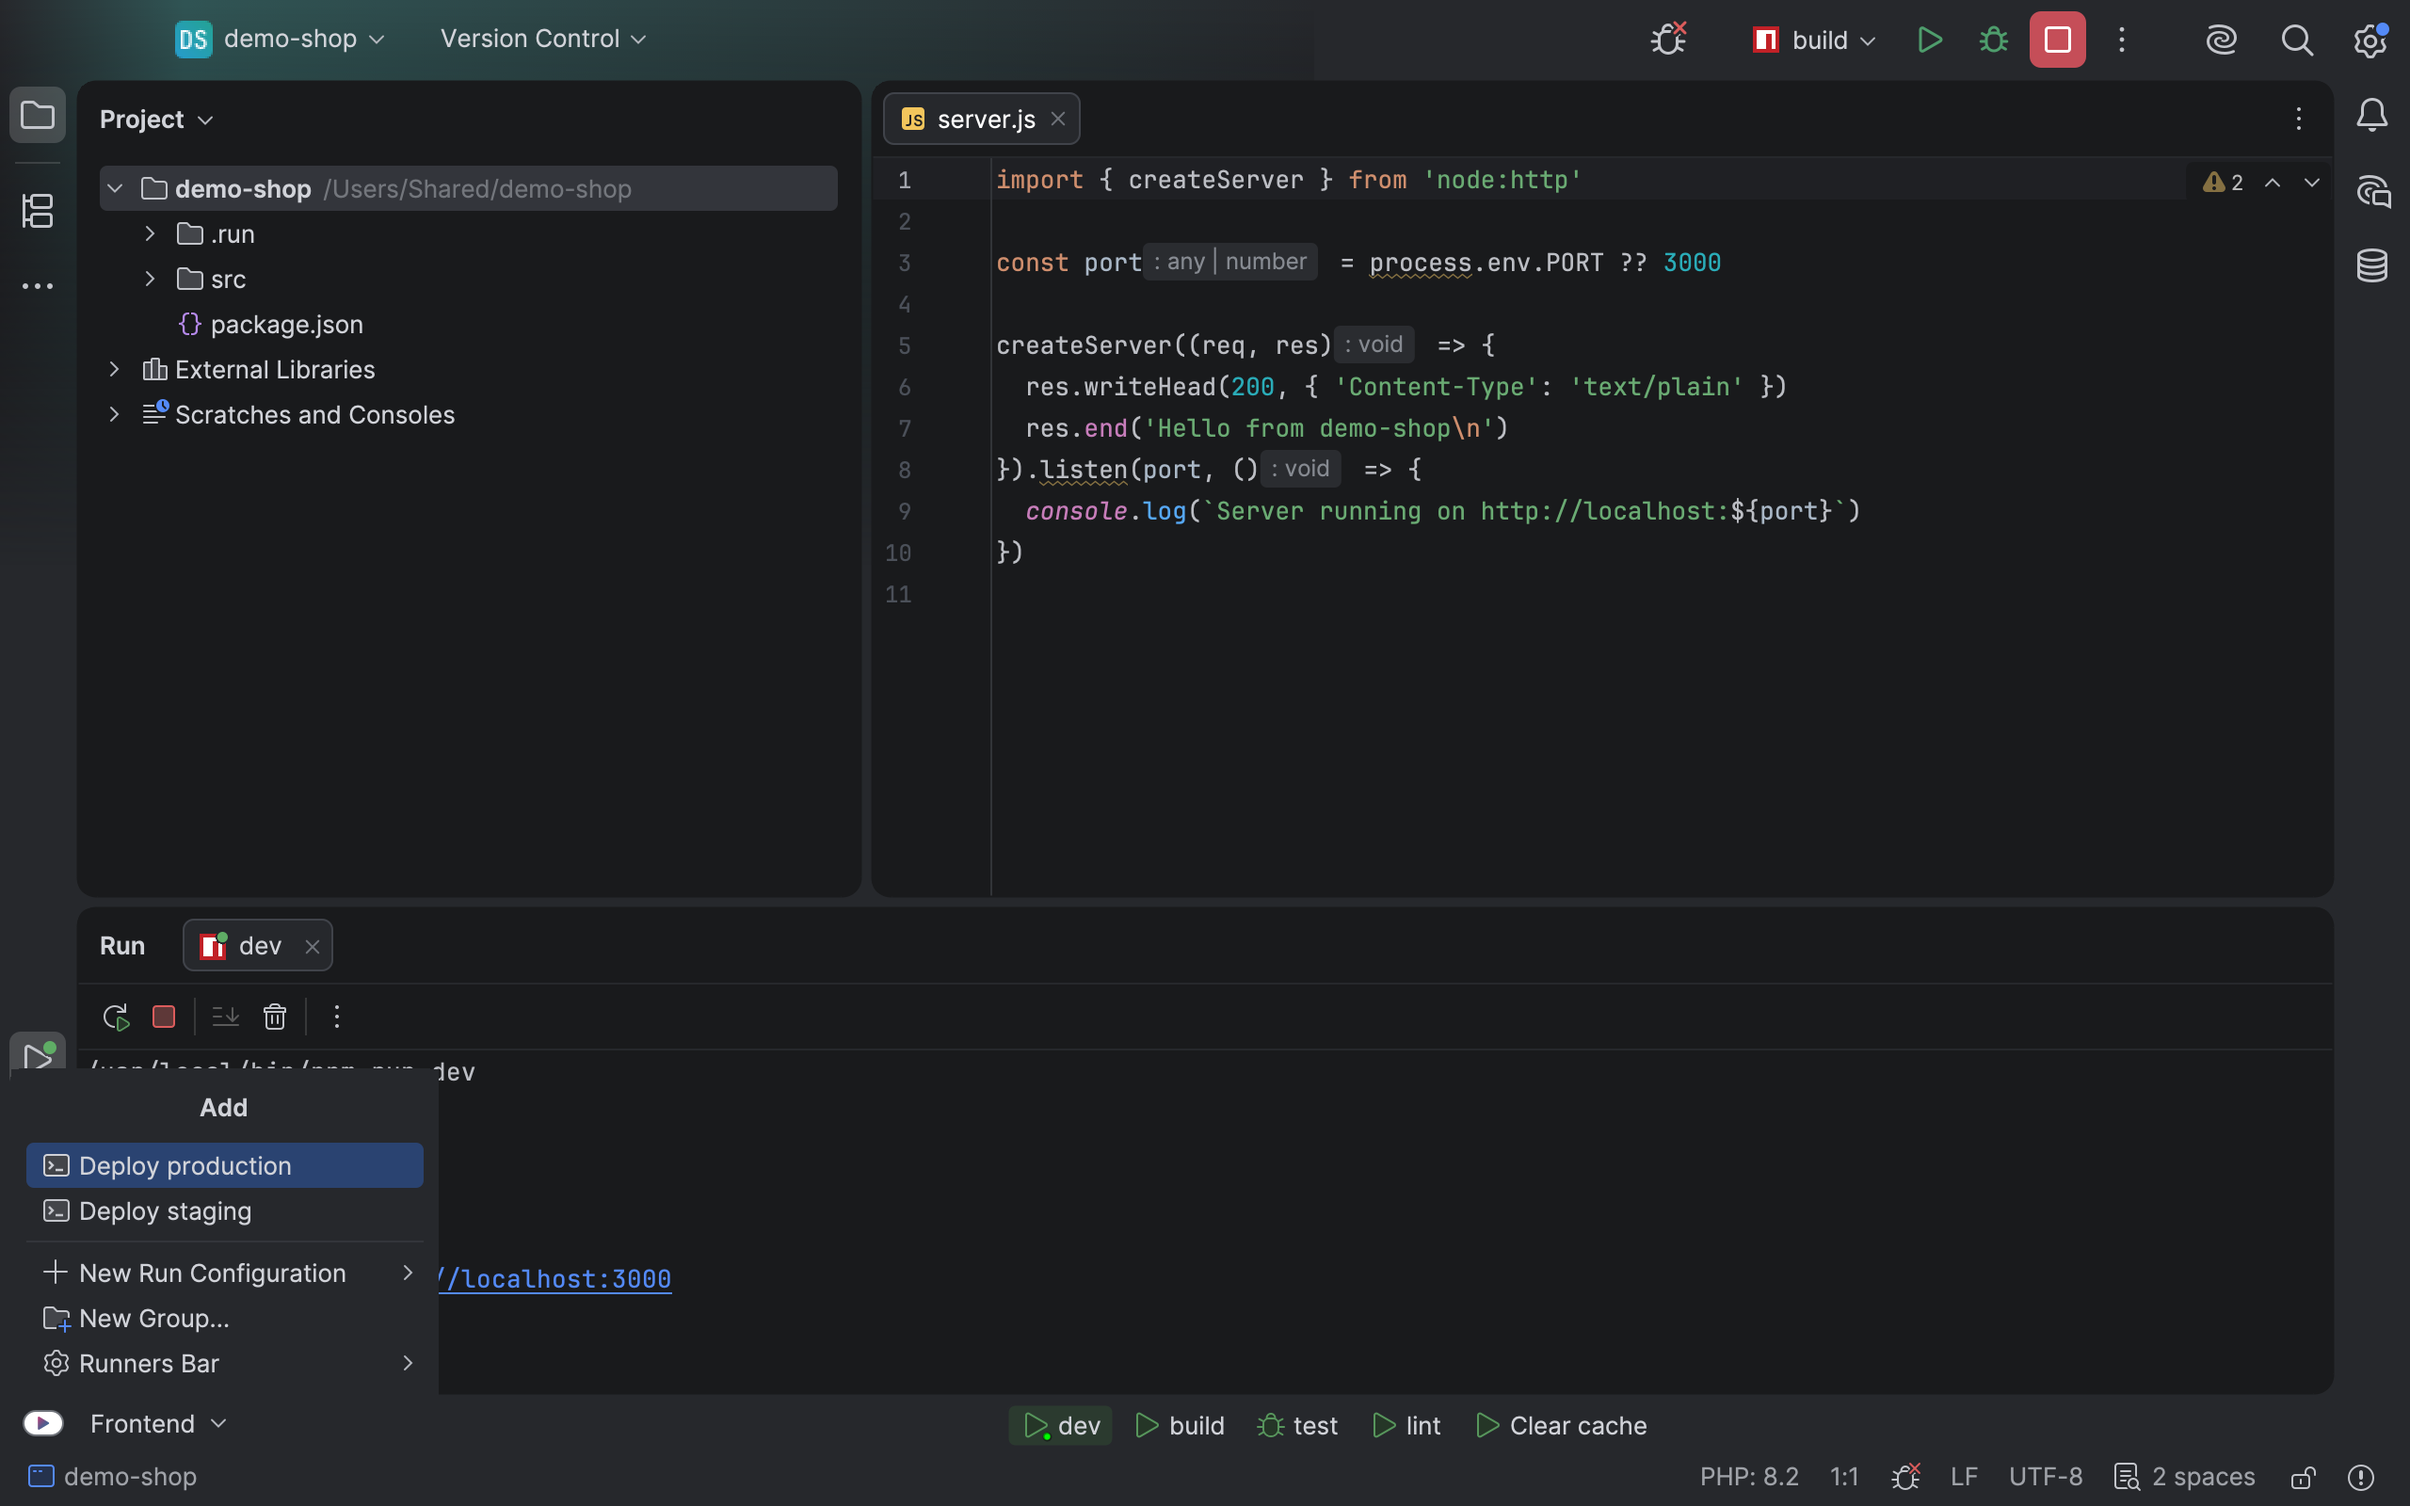
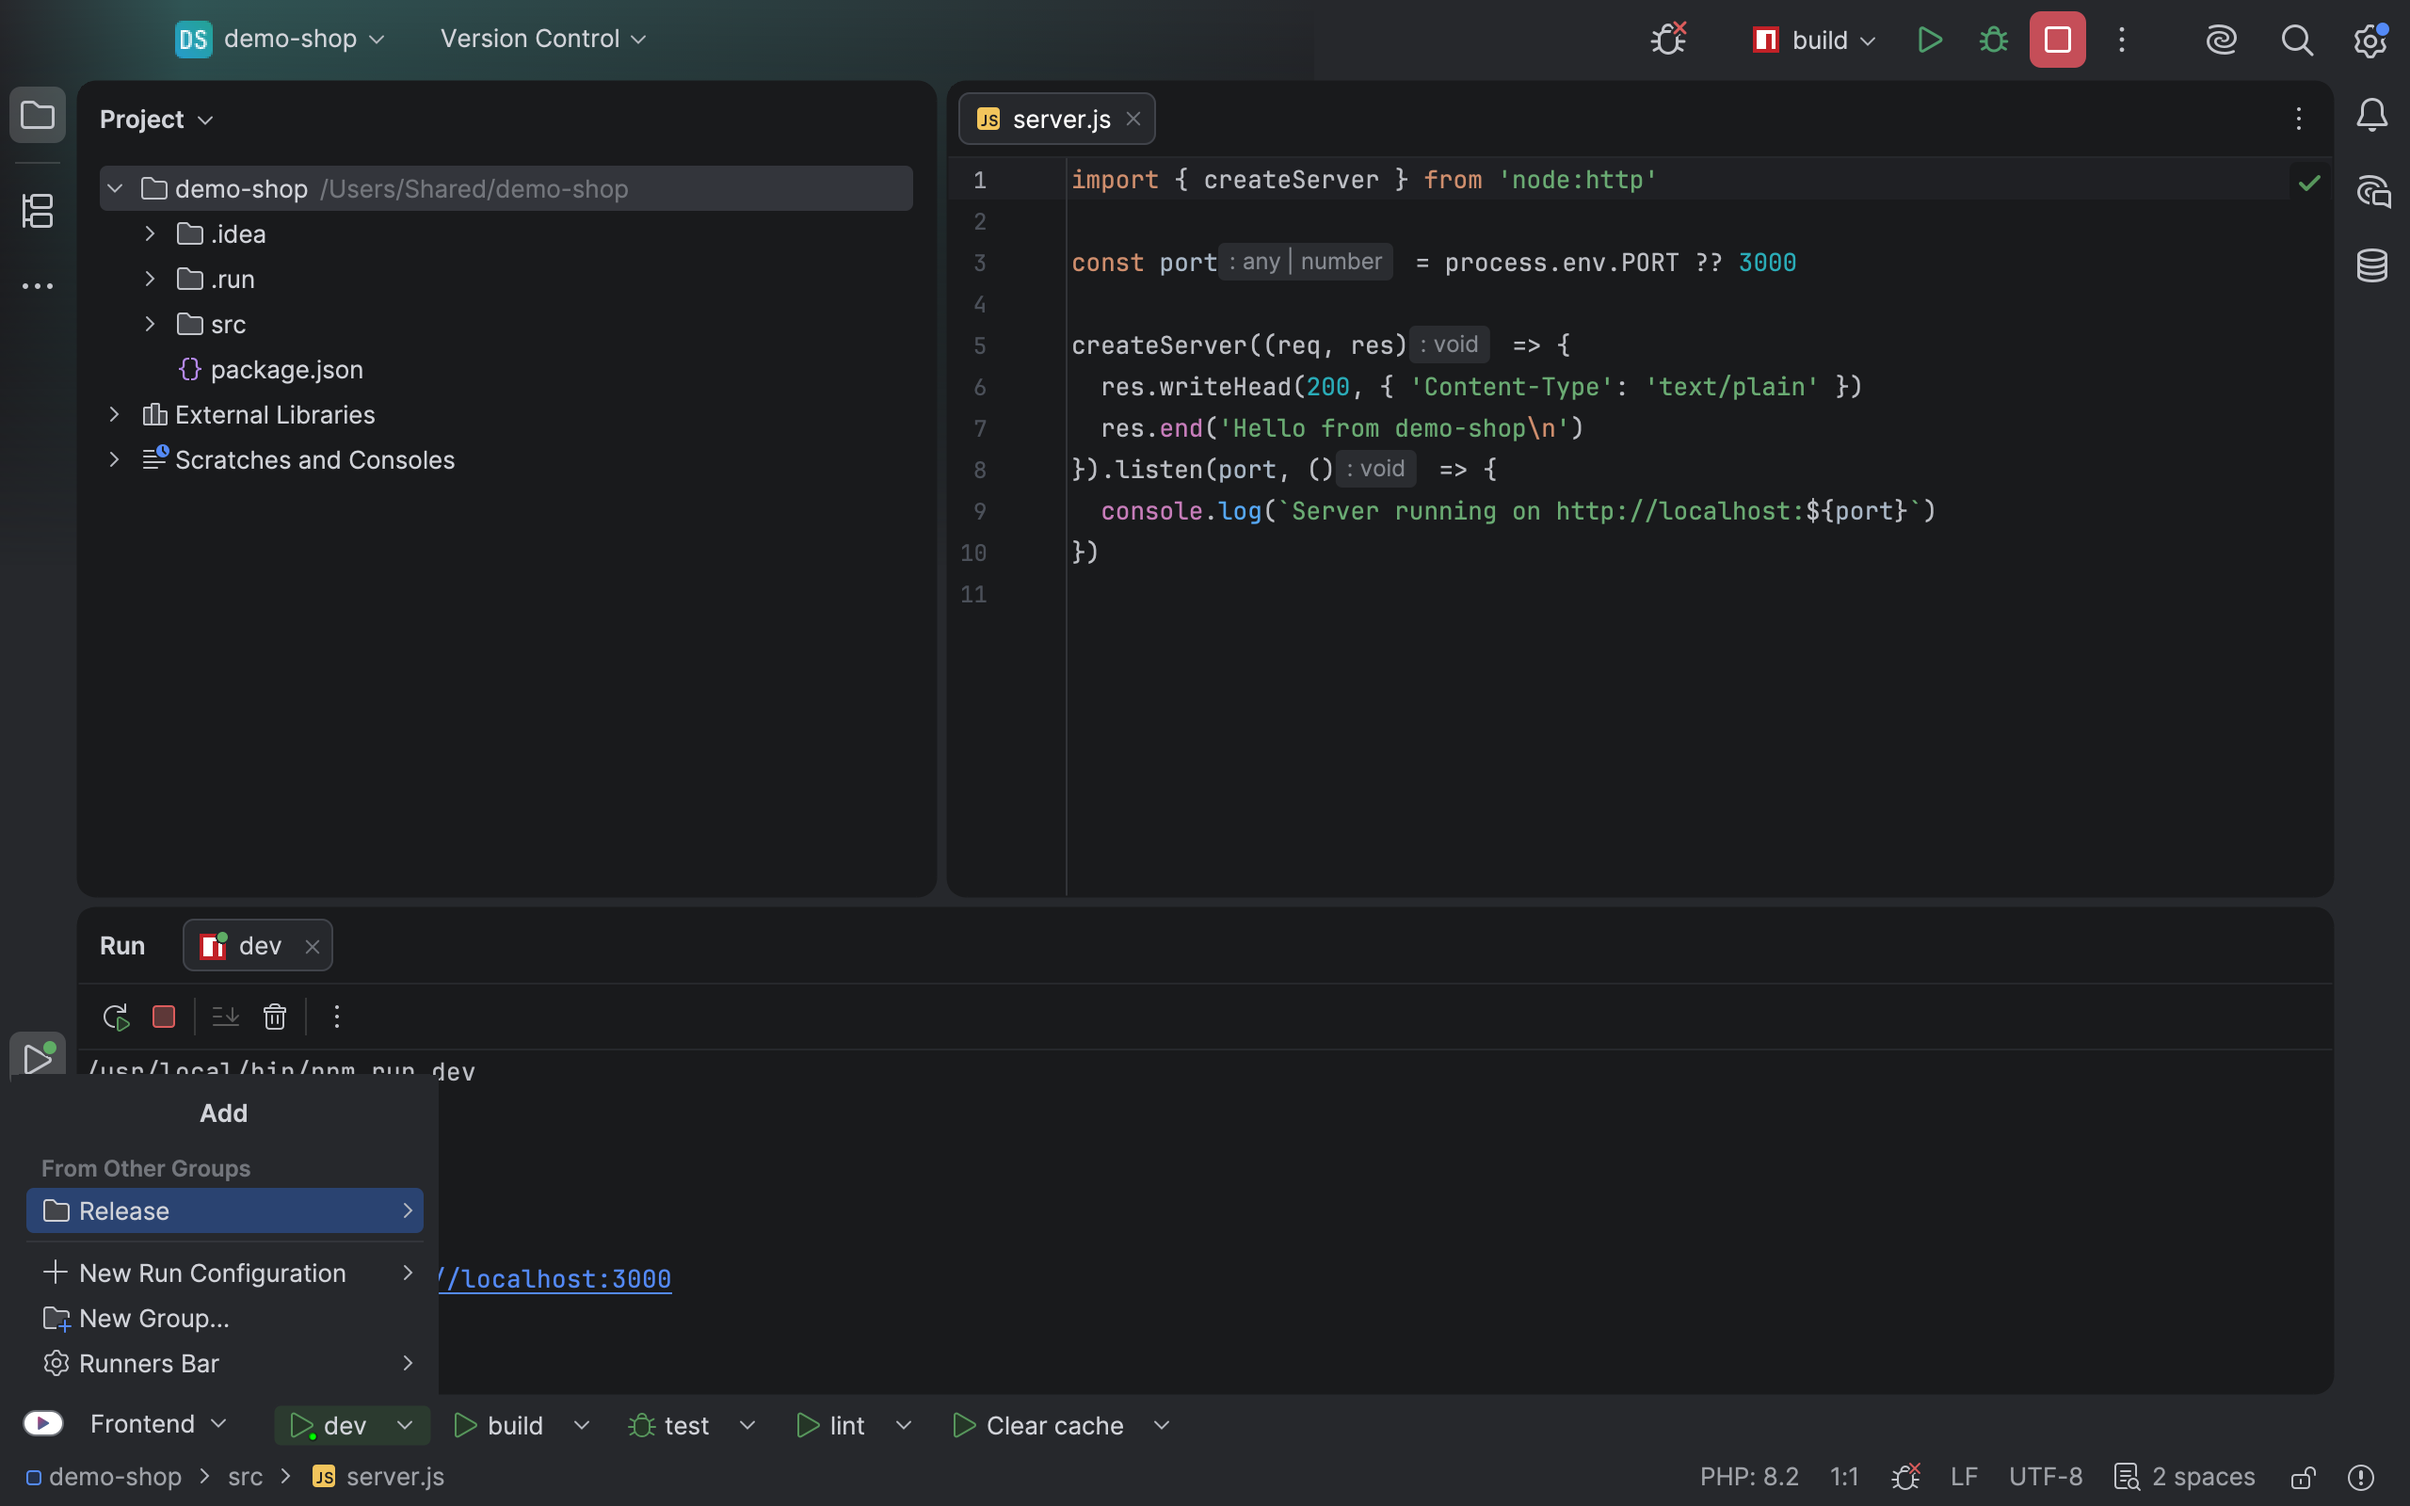
Runners Bar 2.3.0: consistent names for project file runners, grouped add menu
- Runners from .runners-bar are always named "Name (Group)"; tabs show just
  "Name" inside their group.
- Add menu lists configurations from other groups under "From Other Groups",
  one submenu per group with the short tab names.
- Submenus in the bar and tab menus open on hover.

diff --git a/src/main/kotlin/app/heckit/ide/runnersbar/RunnersBarPanel.kt b/src/main/kotlin/app/heckit/ide/runnersbar/RunnersBarPanel.kt
@@ -13,6 +13,7 @@ import com.intellij.notification.NotificationAction
 import com.intellij.notification.NotificationGroupManager
 import com.intellij.notification.NotificationType
 import com.intellij.openapi.Disposable
+import com.intellij.openapi.actionSystem.ex.ActionUtil
 import com.intellij.openapi.actionSystem.ActionGroup
 import com.intellij.openapi.actionSystem.ActionUpdateThread
 import com.intellij.openapi.actionSystem.AnAction
@@ -212,9 +213,22 @@ class RunnersBarPanel(private val project: Project, parent: Disposable) : JPanel
         if (candidates.isEmpty() && temporary.isEmpty() && commands.isEmpty()) {
             group.add(popupAction(RunnersBarBundle.message("bar.add.nothing"), null, enabled = false) {})
         }
-        candidates.forEach { settings ->
+        // Erst, was noch in keiner Gruppe steht; danach je Gruppe ein Untermenü mit den Kurznamen.
+        val byGroup = candidates.map { it to service.groupsOf(it) }
+        byGroup.filter { it.second.isEmpty() }.forEach { (settings, _) ->
             group.add(popupAction(settings.name, settings.configuration.icon) { service.add(settings) })
         }
+        byGroup.flatMap { (settings, groups) -> groups.map { it to settings } }
+            .groupBy({ it.first }, { it.second })
+            .toSortedMap(compareBy<String> { it != RunnersBarGroup.DEFAULT_GROUP }.thenBy { it.lowercase() })
+            .also { if (it.isNotEmpty()) group.add(Separator.create(RunnersBarBundle.message("bar.add.otherGroups"))) }
+            .forEach { (name, list) ->
+                val sub = submenu(groupDisplayName(name), AllIcons.Nodes.Folder)
+                list.forEach { settings ->
+                    sub.add(popupAction(tabText(settings.name, name), settings.configuration.icon) { service.add(settings) })
+                }
+                group.add(sub)
+            }
         if (temporary.isNotEmpty() || commands.isNotEmpty()) {
             group.add(Separator.getInstance())
             val sub = submenu(RunnersBarBundle.message("bar.add.temporary"), AllIcons.Actions.Lightning)
@@ -823,6 +837,8 @@ class RunnersBarPanel(private val project: Project, parent: Disposable) : JPanel
                 JBPopupFactory.ActionSelectionAid.SPEEDSEARCH,
                 true,
             )
+            // Untermenüs (z. B. Gruppen im Add-Menü) beim Darüberfahren öffnen, wie in den Menüs der IDE.
+            .apply { setShowSubmenuOnHover(true) }
             .also { if (at != null) it.show(at) else it.showAtBar(anchor, layout) }
 }
 
@@ -838,11 +854,12 @@ fun askConfigurationName(project: Project, initial: String, title: String): Stri
 fun submenu(text: String, icon: Icon?): DefaultActionGroup =
     DefaultActionGroup(text, true).apply { templatePresentation.icon = icon }
 
-fun popupAction(text: String, icon: Icon?, enabled: Boolean = true, block: () -> Unit): AnAction =
+fun popupAction(text: String, icon: Icon?, enabled: Boolean = true, secondary: String? = null, block: () -> Unit): AnAction =
     object : DumbAwareAction(text, null, icon) {
         override fun actionPerformed(e: AnActionEvent) = block()
         override fun update(e: AnActionEvent) {
             e.presentation.isEnabled = enabled
+            if (secondary != null) e.presentation.putClientProperty(ActionUtil.SECONDARY_TEXT, secondary)
         }
 
         override fun getActionUpdateThread() = ActionUpdateThread.EDT

diff --git a/src/main/kotlin/app/heckit/ide/runnersbar/RunnersBarFile.kt b/src/main/kotlin/app/heckit/ide/runnersbar/RunnersBarFile.kt
@@ -75,24 +75,29 @@ object RunnersBarFile {
         // Gleiche Namen in zwei Gruppen: nur der erste zählt.
         val unique = runners.distinctBy { it.task.key }
         for (runner in unique) {
+            // In der IDE immer „Name (Gruppe)“, damit gleiche Namen aus mehreren Gruppen eindeutig sind; die Leiste zeigt
+            // innerhalb der Gruppe nur „Name“ (siehe [tabText]).
+            val fullName = qualifiedName(runner.task.label, runner.task.group!!)
             var existing = service.importedSettings(runner.task.key)
-            // Eine gleichnamige Shell-Konfiguration (z. B. von Hand angelegt) übernehmen statt „Sandbox (Plugin)“ daneben anzulegen;
+            // Eine gleichnamige Shell-Konfiguration (z. B. von Hand angelegt) übernehmen statt eine Doppelung daneben anzulegen;
             // eine früher so angelegte Doppelung wird dabei wieder gelöscht.
-            val sameName = adoptable(project, runner.task.label)
-            if (sameName != null && existing?.name != runner.task.label) {
+            val sameName = if (existing == null) adoptable(project, fullName) ?: adoptable(project, runner.task.label) else adoptable(project, fullName)
+            if (sameName != null && sameName != existing) {
                 existing?.let(service::delete)
                 service.markImported(runner.task.key, sameName)
                 service.addToGroup(runner.task.group!!, sameName)
                 existing = sameName
             }
             if (existing == null) {
-                val settings = VsCodeTasksImport.importOne(project, runner.task, runner.inTerminal)
+                val settings = RunnersBarShell.createOrUpdate(project, runner.task, fullName, null, runner.inTerminal)
+                service.markImported(runner.task.key, settings)
                 service.addToGroup(runner.task.group!!, settings)
             } else {
                 if (RunnersBarShell.differs(existing, runner.task)) RunnersBarShell.createOrUpdate(project, runner.task, existing.name, existing)
                 if (RunnersBarShell.executesInTerminal(existing) != runner.inTerminal) {
                     RunnersBarShell.setExecuteInTerminal(project, existing, runner.inTerminal)
                 }
+                service.rename(existing, fullName)
             }
         }
         val keys = unique.mapTo(HashSet()) { it.task.key }
@@ -101,6 +106,8 @@ object RunnersBarFile {
             service.forgetImported(key)
         }
     }
+
+    fun qualifiedName(name: String, group: String): String = "$name ($group)"
 
     private fun adoptable(project: Project, name: String): RunnerAndConfigurationSettings? {
         val service = RunnersBarService.getInstance(project)

diff --git a/src/main/kotlin/app/heckit/ide/runnersbar/RunnersBarTab.kt b/src/main/kotlin/app/heckit/ide/runnersbar/RunnersBarTab.kt
@@ -101,7 +101,7 @@ class RunnersBarTab(
             else -> AllIcons.Actions.Execute
         }
         main.icon = if (running && dragState != DragState.REMOVE) ExecutionUtil.getLiveIndicator(baseIcon) else baseIcon
-        main.text = name
+        main.text = tabText(name, service.activeGroupName)
         main.foreground = if (settings == null) UIUtil.getContextHelpForeground() else UIUtil.getLabelForeground()
         main.toolTipText = if (ghost) null else when {
             settings == null -> RunnersBarBundle.message("tab.tooltip.missing", name)
@@ -206,6 +206,7 @@ class RunnersBarTab(
                 JBPopupFactory.ActionSelectionAid.MNEMONICS,
                 true,
             )
+            .apply { setShowSubmenuOnHover(true) }
             .also { popup ->
                 popup.showAtBar(this, bar.layout)
                 reopenOnCopyKey(popup, copy)
@@ -418,3 +419,7 @@ class HoverLabel(icon: Icon? = null, text: String? = null, tooltip: String? = nu
         const val DRAG_THRESHOLD = 5
     }
 }
+
+/** „Sandbox (Plugin)“ heißt in der Gruppe „Plugin“ nur „Sandbox“ - die Gruppe steht schon im Reiter darüber. */
+internal fun tabText(name: String, group: String): String =
+    name.removeSuffix(" ($group)").ifBlank { name }

diff --git a/src/main/kotlin/app/heckit/ide/runnersbar/RunnersBarService.kt b/src/main/kotlin/app/heckit/ide/runnersbar/RunnersBarService.kt
@@ -172,6 +172,10 @@ class RunnersBarService(private val project: Project) : PersistentStateComponent
     /** Persönliche Gruppen zuerst, dann die geteilten. */
     private val groups: List<RunnersBarGroup> get() = state.groups + shared.groups
 
+    /** Namen der Gruppen, in denen [settings] schon als Reiter steht. */
+    fun groupsOf(settings: RunnerAndConfigurationSettings): List<String> =
+        groups.filter { group -> group.entries.any { it.configId == settings.uniqueID } }.map { it.name }
+
     private fun activeGroup(): RunnersBarGroup {
         if (groups.isEmpty()) state.groups.add(RunnersBarGroup())
         return groups.firstOrNull { it.name == state.activeGroup }

diff --git a/marketplace/custom-pages/configuration.md b/marketplace/custom-pages/configuration.md
@@ -29,6 +29,8 @@ JSON with comments in the project root. Each runner becomes a Shell Script run c
 
 The file is authoritative. Changing a runner updates its configuration, and removing a runner deletes it. Runners without a terminal run in the Run window, so Restart and Stop work.
 
+Configurations are named `Name (Group)` (e.g. `Sandbox (Plugin)`), so equal names in several groups stay apart in the IDE's run configurations. Inside its group the tab shows just `Name`; this applies to every tab whose name ends in ` (Group)` of the group shown.
+
 ## Storage
 
 | Scope | Location | VCS |
